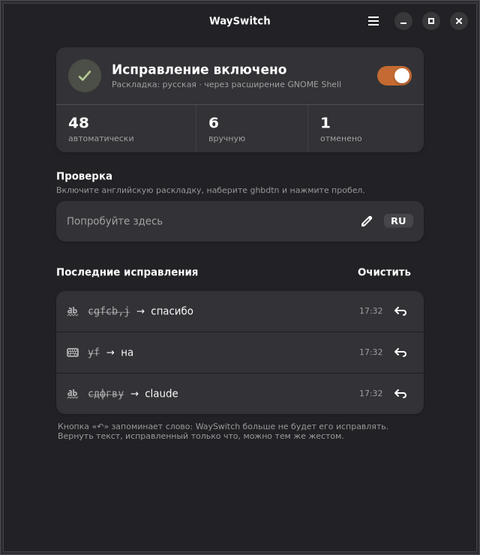
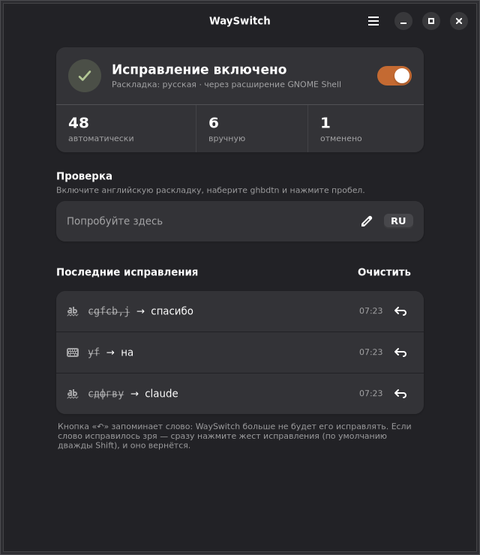
docs: снимки KDE, Xfce/MATE/LXQt и Hyprland в README, свежие снимки GNOME; версия 2.0.0a4

Changed region(s): [[0.125, 0.7658, 0.8438, 0.827]]

diff --git a/wayswitch/__init__.py b/wayswitch/__init__.py
@@ -1,3 +1,3 @@
 """WaySwitch — автоисправление раскладки для GNOME/Wayland."""
 
-__version__ = "2.0.0a3"
+__version__ = "2.0.0a4"

diff --git a/README.en.md b/README.en.md
@@ -55,6 +55,14 @@ supports the Russian ↔ English pair.
 - **Exceptions.** Words and programs to leave alone. Password fields are skipped.
 
 <p align="center">
+  <img src=".github/assets/de-kde.png" width="420" alt="WaySwitch widget in the KDE Plasma system tray">
+  <br>
+  <img src=".github/assets/de-panels.png" width="100%" alt="WaySwitch tray menu in Xfce, MATE and LXQt">
+  <br>
+  <img src=".github/assets/de-hyprland.png" width="100%" alt="WaySwitch on Hyprland: Waybar module and the WaySwitch window">
+</p>
+
+<p align="center">
   <img src="docs/screenshots/main-dark.png" width="400" alt="WaySwitch main window">
   &nbsp;
   <img src="docs/screenshots/prefs-light.png" width="400" alt="WaySwitch preferences">
